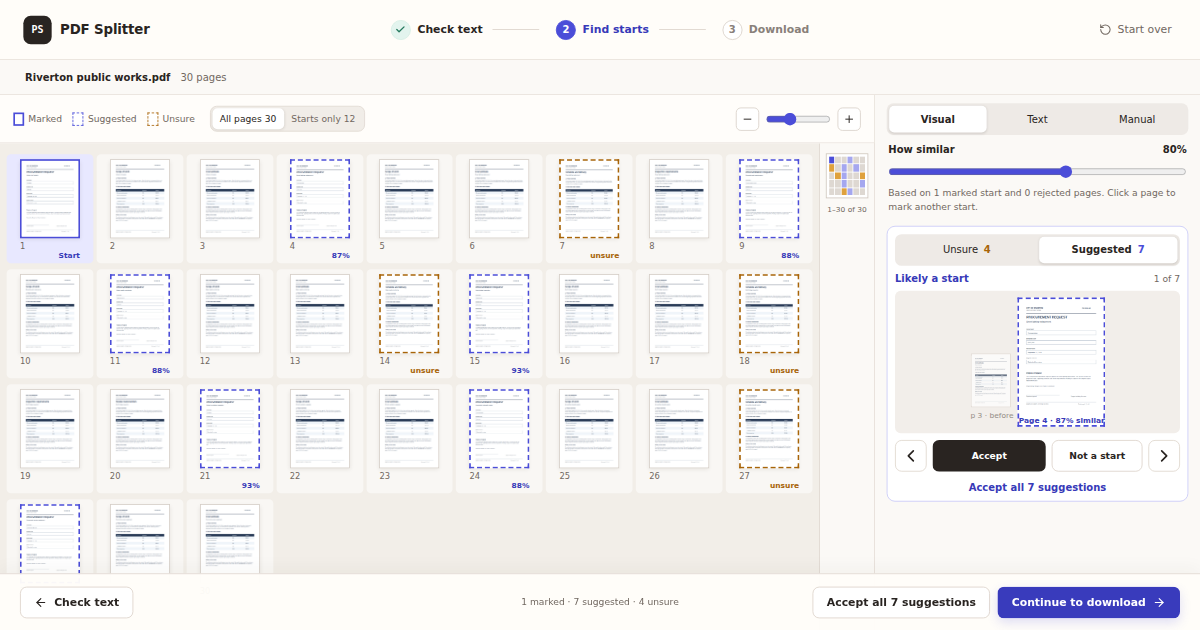
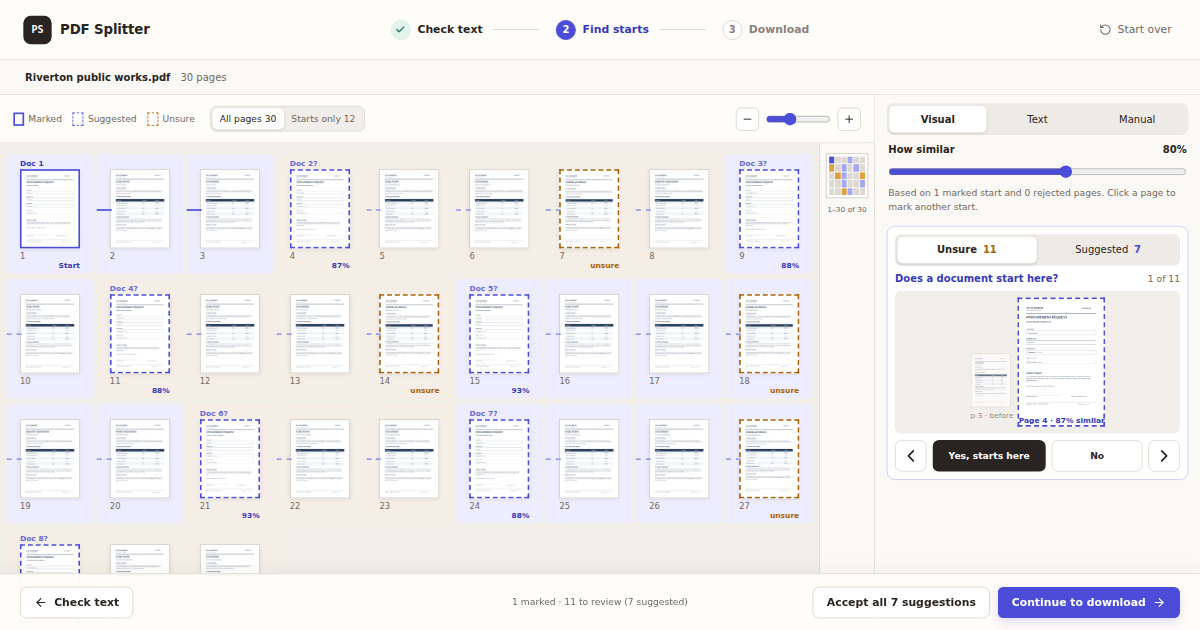
Polish export layout and verify reference-first review

diff --git a/src/components/SplitView.tsx b/src/components/SplitView.tsx
@@ -83,6 +83,7 @@ function ReviewCard({ controller, onLarge, shortcutsActive }: { controller: Spli
   const page = controller.pages.find((item) => item.number === candidate);
   const before = controller.pages.find((item) => item.number === candidate - 1);
   const match = controller.matches.pages.find((item) => item.page === candidate);
+  const candidateTone = suggestedSet.has(candidate) ? 'suggested' : 'unsure';
 
   useEffect(() => {
     setIndex((value) => Math.min(value, Math.max(0, queue.length - 1)));
@@ -107,7 +108,7 @@ function ReviewCard({ controller, onLarge, shortcutsActive }: { controller: Spli
   }, [candidate, controller, queue.length, shortcutsActive, showReference]);
 
   return (
-    <section className={`review-card ${tab} ${showReference ? 'reference' : ''}`}>
+    <section className={`review-card ${candidateTone} ${showReference ? 'reference' : ''}`}>
       <div className="segmented review-tabs" role="tablist" aria-label="Review queue">
         <button type="button" role="tab" aria-selected={tab === 'unsure'} onClick={() => { setTab('unsure'); setIndex(0); }}>Unsure <b>{reviewQueue.length}</b></button>
         <button type="button" role="tab" aria-selected={tab === 'suggested'} onClick={() => { setTab('suggested'); setIndex(0); }}>Suggested <b>{controller.matches.suggested.length}</b></button>

diff --git a/src/components/ExportView.css b/src/components/ExportView.css
@@ -1,7 +1,8 @@
+.phase-export { height: 100dvh; }
+
 .export-workspace {
   width: min(1180px, calc(100% - 48px));
-  max-height: calc(100vh - 182px);
-  min-height: 390px;
+  min-height: 0;
   flex: 1;
   align-self: center;
   display: flex;
@@ -51,8 +52,7 @@
   line-height: 1.05;
 }
 
-.export-command__title p,
-.export-command__note {
+.export-command__title p {
   margin: 0;
   color: var(--muted);
   font-size: 11px;
@@ -112,7 +112,7 @@
   gap: 7px;
 }
 
-.export-download {
+.export-command .export-download {
   width: 100%;
   min-height: 62px;
   padding: 0 24px;
@@ -163,10 +163,6 @@
   font-size: 10px;
 }
 
-.export-command__note {
-  grid-column: 1 / 3;
-  padding-left: 61px;
-}
 
 .export-documents {
   min-height: 0;
@@ -288,14 +284,10 @@
     align-items: center;
   }
 
-  .export-command__note {
-    grid-column: 1 / -1;
-    grid-row: 3;
-    padding-left: 0;
-  }
 }
 
 @media (max-width: 760px) {
+  .phase-export { height: auto; }
   .export-workspace {
     width: calc(100% - 28px);
     max-height: none;
@@ -308,19 +300,10 @@
     padding: 15px;
   }
 
-  .export-template,
-  .export-action,
-  .export-command__note {
-    grid-column: 1;
-  }
-
   .export-action {
     display: flex;
   }
 
-  .export-command__note {
-    grid-row: auto;
-  }
 
   .export-documents {
     overflow: visible;

diff --git a/tests/e2e/sample.spec.ts b/tests/e2e/sample.spec.ts
@@ -30,6 +30,13 @@ test('bundled sample demonstrates text matching and exports eight documents', as
   await expect(page.getByText('30 of 30 pages', { exact: true })).toBeVisible();
   await page.getByRole('button', { name: 'Continue to find starts' }).click();
 
+  const review = page.locator('.review-card');
+  await expect(review.getByRole('button', { name: 'View page 1 large', exact: true })).toBeVisible();
+  await review.getByRole('button', { name: 'Continue', exact: true }).click();
+  await expect(review.getByRole('button', { name: 'View page 4 large', exact: true })).toBeVisible();
+  await review.getByRole('button', { name: 'Skip to next review page' }).click();
+  await expect(review.getByRole('button', { name: 'View page 9 large', exact: true })).toBeVisible();
+
   await page.getByRole('tab', { name: 'Text' }).click();
   await page.getByLabel('Start phrase').fill('PROCUREMENT REQUEST');
   await page.getByRole('button', { name: 'Add phrase' }).click();

diff --git a/README.md b/README.md
@@ -8,7 +8,7 @@ Choose **Try a sample PDF** to explore a fictional public-works packet: 30 pages
 
 1. Drop in a PDF and check its existing text.
 2. Mark document starts manually, look for matching text, or use visual similarity to find pages that resemble your examples.
-3. Review suggestions, adjust filenames, and download all documents as a ZIP.
+3. Review suggestions, choose a filename template, and download all documents as a ZIP.
 
 Only confirmed starts create new documents. The original PDF is never changed, and exported pages retain their existing text and graphics. Visual similarity is a suggestion, not a certainty: review the proposed starts before accepting them.
 
